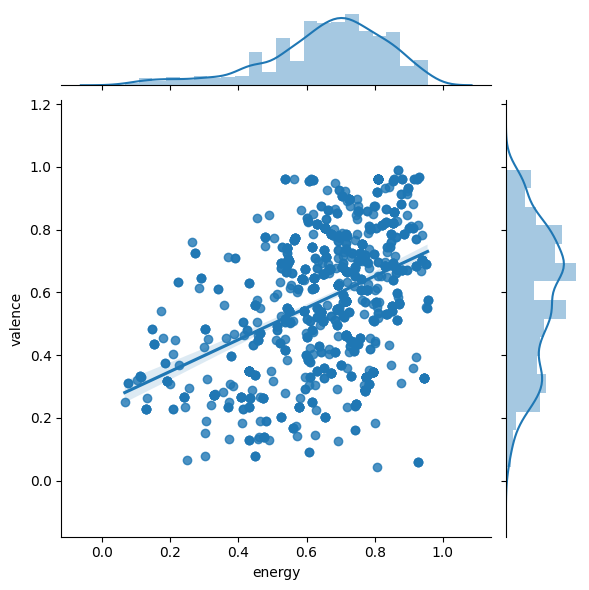
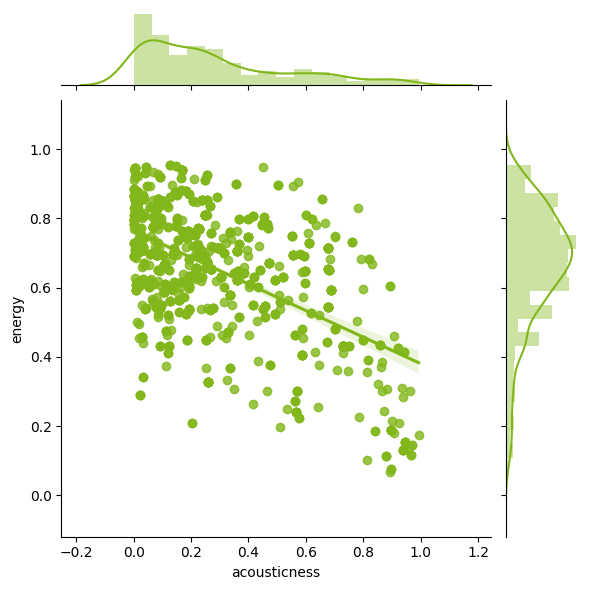
Visualizacion terminada

diff --git a/templates/index.html b/templates/index.html
@@ -31,21 +31,6 @@
 
 
         <div class="row d-flex info flex-column">
-            <h1 class="mb-5">¿Qué características son más frecuentes en cada país?</h1>
-            <h3>Analizaremos algunas características que nos ofrece la API de Spotify:</h3>
-            <p>Danceability: mide lo bailable que es una canción. A mayor valor, más sirve para bailar.</p>
-            <p>Speechiness: cuántas palabras hay en la canción. Valores por encima de 0.3 suele indicar música Rap.</p>
-            <p>Energy: la energía que transmite la canción. Las canciones rápidas y alegres, que nos incitan a movernos tienen mayor energía.</p>
-            <p>Valence: la positividad que transmite una canción.</p>
-            <p>Acousticness: indica si la canción posee muchos instrumentos eléctricos o es acústica.</p>
-            <h3>Parece que empezamos con más similitudes que diferencias. Es curioso que todos los países dibujen formas con cierto parecido</h3>
-        </div>
-        <div class="row d-flex justify-content-center">
-            <div id="myDiv"></div>
-        </div>
-
-
-        <div class="row d-flex info flex-column">
             <h1 class="mb-5">¿Qué relación hay entre las características de la música?</h1>
             <h3>El volumen y la energía de una canción están directamente relacionados</h3>
             <h3>Las canciones con un tempo más lento son menos bailables</h3>
@@ -63,6 +48,61 @@
         <div class="row d-flex justify-content-center">
             <div id="heatmap"></div>
         </div>
+
+
+        <div class="row d-flex info flex-column">
+            <h1 class="mb-5">Relación</h1>
+            <h3>Texto1</h3>
+            <h3>Texto2</h3>
+        </div>
+
+        <div class="row d-flex justify-content-center">
+            <img id="pairplot" src="/static/images/fig1.png"></img>
+
+            <div class="row d-flex justify-content-center sp-container mt-5">
+                <img class="sp-img" src="https://developer.spotify.com/assets/audio/acousticness.png" alt="">
+                <img class="sp-img" src="https://developer.spotify.com/assets/audio/energy.png" alt="">
+                <img class="sp-img" src="https://developer.spotify.com/assets/audio/loudness.png" alt="">
+                <img class="sp-img" src="https://developer.spotify.com/assets/audio/danceability.png" alt="">
+                <img class="sp-img" src="https://developer.spotify.com/assets/audio/valence.png" alt="">
+            </div>
+        </div>
+
+
+        <div class="row d-flex info flex-column">
+            <h1 class="mb-5">Detalles</h1>
+            <h3>Texto1</h3>
+            <h3>Texto2</h3>
+        </div>
+
+        <div class="row d-flex justify-content-center">
+            <img class="pl-img" src="static/images/relations-ac-en.png" alt="">
+            <img class="pl-img" src="static/images/relations-en-loud.png" alt="">
+            <img class="pl-img" src="static/images/relations-loud-ac.png" alt="">
+        </div>
+
+
+
+
+
+
+
+
+
+        <div class="row d-flex info flex-column">
+            <h1 class="mb-5">¿Qué características son más frecuentes en cada país?</h1>
+            <h3>Analizaremos algunas características que nos ofrece la API de Spotify:</h3>
+            <p>Danceability: mide lo bailable que es una canción. A mayor valor, más sirve para bailar.</p>
+            <p>Speechiness: cuántas palabras hay en la canción. Valores por encima de 0.3 suele indicar música Rap.</p>
+            <p>Energy: la energía que transmite la canción. Las canciones rápidas y alegres, que nos incitan a movernos tienen mayor energía.</p>
+            <p>Valence: la positividad que transmite una canción.</p>
+            <p>Acousticness: indica si la canción posee muchos instrumentos eléctricos o es acústica.</p>
+            <h3>Parece que empezamos con más similitudes que diferencias. Es curioso que todos los países dibujen formas con cierto parecido</h3>
+        </div>
+        <div class="row d-flex justify-content-center">
+            <div id="myDiv"></div>
+        </div>
+
 
         <div class="row d-flex info flex-column">
             <h1 class="mb-5">¿Cuántas canciones virales consiguen alcanzar la primera posición al menos una vez?</h1>

diff --git a/static/js/heatmap.js b/static/js/heatmap.js
@@ -29,6 +29,7 @@ let getHeatMapData = country => {
                     x: ['danceability', 'energy', 'speechiness', 'valence', 'tempo', 'acousticness', 'duration_ms', 'loudness', 'key'],
                     y: ['danceability', 'energy', 'speechiness', 'valence', 'tempo', 'acousticness', 'duration_ms', 'loudness', 'key'],
                     type: 'heatmap',
+                    colorscale: [[0, '#1A1A1A'], [0.20 ,'white'], [1, '#81B71A']],
                     hoverongaps: false
                 }]
                 res(data);
@@ -47,24 +48,6 @@ $('#heat-select').change(function() {
 })
 
 
-
-/*
-$.ajax({
-    url: '/relation?country=spain&x=energy&y=acousticness',
-    success: res => {
-        res = JSON.parse(res)
-        var data = [
-            {
-                x: res.x,
-                y: res.y,
-                type: 'scatter',
-                mode: 'markers'
-            }
-          ];
-          Plotly.newPlot('relation', data);
-    }
-})
-*/
 
 let getTopMinData = country => {
     return new Promise((res, rej) => {
@@ -253,8 +236,7 @@ let getSpider = country => {
       font: {
           color: 'white'
       }
-    },
-    showlegend: false
+    }
   }
   
 
@@ -270,4 +252,11 @@ getSpider('spain').then(res => {
     getSpider('turkey').then(res => {
         Plotly.addTraces('myDiv', res)
     })
+  })
+
+  $.ajax({
+      url: 'pairPlot',
+      success: res => {
+          console.log(res);
+      }
   })

diff --git a/static/css/style.css b/static/css/style.css
@@ -65,3 +65,24 @@ body > * {
 .turkey {
     background-color: #dc3545
 }
+
+#pairplot {
+    height: 70%;
+    width: 70%;
+}
+
+.sp-img {
+    width: 15%;
+    height: auto;
+    margin: 10px;
+}
+
+.sp-container {
+    width: 80%
+}
+
+.pl-img {
+    width: 25%;
+    height: auto;
+    margin: 10px;
+}

diff --git a/predict.py b/predict.py
@@ -12,6 +12,18 @@ from sklearn.neural_network import MLPClassifier
 from sklearn.datasets import make_classification
 
 
+from sklearn import datasets, linear_model
+from sklearn.linear_model import LinearRegression, RANSACRegressor
+from sklearn.tree import DecisionTreeRegressor
+from sklearn.discriminant_analysis import LinearDiscriminantAnalysis
+from sklearn.neural_network import MLPRegressor
+from sklearn.ensemble import RandomForestRegressor
+from sklearn.model_selection import cross_val_predict, train_test_split
+from sklearn.metrics import mean_squared_error, r2_score, mean_absolute_error
+from sklearn import model_selection
+from pandas.plotting import scatter_matrix
+
+
 features = ['danceability', 'energy', 'speechiness', 'valence', 'mode', 'acousticness', 'tempo', 'duration_ms', 'loudness', 'key']
 predict_header = ['success']
 
@@ -26,8 +38,8 @@ df = df_format
 songs_grouped = df.groupby('URL').min()
 songs_grouped['success'] = songs_grouped['position'] < 15
 songs_grouped['success'] = songs_grouped['success'].astype(int)
-sns.countplot(x="success", data=songs_grouped)
-plt.show()
+# sns.countplot(x="success", data=songs_grouped)
+# plt.show()
 
 # Hacemos una primera prueba con el algoritmo KNeighbours Classiffier
 X_all = songs_grouped[features]
@@ -45,47 +57,47 @@ Y_all = songs_grouped[predict_header]
 # plt.show()
 
 
-#Volvemos a probar eliminando algunos atributos
-X_all = songs_grouped[features]
-X_all = X_all.drop(['duration_ms', 'loudness', 'key', 'tempo', 'speechiness', 'mode'], axis = 1)
-X_train, X_test, Y_train, Y_test = train_test_split(X_all, Y_all, test_size=0.2, random_state=42)
-knn = KNeighborsClassifier(n_neighbors = 23)
-knn.fit(X_train, Y_train)
-prediction = knn.predict(X_test)
-print(knn.score(X_test, Y_test))
-cm = confusion_matrix(Y_test, prediction)
-sns.heatmap(cm, annot = True, cmap="Blues")
-plt.show()
+# #Volvemos a probar eliminando algunos atributos
+# X_all = songs_grouped[features]
+# X_all = X_all.drop(['duration_ms', 'loudness', 'key', 'tempo', 'speechiness', 'mode'], axis = 1)
+# X_train, X_test, Y_train, Y_test = train_test_split(X_all, Y_all, test_size=0.2, random_state=42)
+# knn = KNeighborsClassifier(n_neighbors = 23)
+# knn.fit(X_train, Y_train)
+# prediction = knn.predict(X_test)
+# print(knn.score(X_test, Y_test))
+# cm = confusion_matrix(Y_test, prediction)
+# sns.heatmap(cm, annot = True, cmap="Blues")
+# plt.show()
 
 
 
 
-#Buscamos el mejor parámetro para K
-X_all = songs_grouped[features]
-X_all = X_all.drop(['duration_ms', 'loudness', 'key', 'tempo', 'speechiness', 'mode'], axis = 1)
+# #Buscamos el mejor valor para el parámetro K
+# X_all = songs_grouped[features]
+# X_all = X_all.drop(['duration_ms', 'loudness', 'key', 'tempo', 'speechiness', 'mode'], axis = 1)
 
-X_train, X_test, Y_train, Y_test = train_test_split(X_all, Y_all, test_size=0.2, random_state=42)
+# X_train, X_test, Y_train, Y_test = train_test_split(X_all, Y_all, test_size=0.2, random_state=42)
 
-test_accuracy = []
-rg = np.arange(1, 25)
+# test_accuracy = []
+# rg = np.arange(1, 25)
 
-for i, k in enumerate(rg):
-    knn = KNeighborsClassifier(n_neighbors=k)
-    knn.fit(X_train, Y_train)
-    test_accuracy.append(knn.score(X_test, Y_test))
+# for i, k in enumerate(rg):
+#     knn = KNeighborsClassifier(n_neighbors=k)
+#     knn.fit(X_train, Y_train)
+#     test_accuracy.append(knn.score(X_test, Y_test))
     
-plt.figure(figsize=[13,8])
-plt.plot(rg, test_accuracy)
-plt.legend()
-plt.title('K VS Precisión')
-plt.xlabel('K')
-plt.ylabel('Precisión')
-plt.show()
-print("Mejor precision: {} con K = {}".format(np.max(test_accuracy),1+test_accuracy.index(np.max(test_accuracy))))    
-labels = ['1', '0']
-cm = confusion_matrix(Y_test, prediction)
-sns.heatmap(cm, annot = True, cmap="Blues")
-plt.show()
+# plt.figure(figsize=[13,8])
+# plt.plot(rg, test_accuracy)
+# plt.legend()
+# plt.title('K VS Precisión')
+# plt.xlabel('K')
+# plt.ylabel('Precisión')
+# plt.show()
+# print("Mejor precision: {} con K = {}".format(np.max(test_accuracy),1+test_accuracy.index(np.max(test_accuracy))))    
+# labels = ['1', '0']
+# cm = confusion_matrix(Y_test, prediction)
+# sns.heatmap(cm, annot = True, cmap="Blues")
+# plt.show()
 
 
 
@@ -94,24 +106,3 @@ plt.show()
 
 
 ################# RED NEURONAL. MIRAR SI DA TIEMPO
-
-# X_all = songs_grouped[features]
-# Y_all = songs_grouped[predict_header]
-# X_train, X_test, Y_train, Y_test = train_test_split(X_all, Y_all, test_size=0.2, random_state=42)
-
-# clf = MLPClassifier(hidden_layer_sizes=(100, 100, 100), max_iter=10000, alpha=0000.1,
-#                      solver='adam', verbose=10,  random_state=42, tol=0.00000001, activation='relu')
-
-# clf.fit(X_train, Y_train)
-# prediction = clf.predict(X_test)
-
-# cm = confusion_matrix(Y_test, prediction)
-# sns.heatmap(cm, center=True)
-# plt.show()
-
-# print(accuracy_score(Y_test, prediction))
-# print(prediction)
-
-###############################################
-
-

diff --git a/service.py b/service.py
@@ -25,6 +25,16 @@ def get_dir(country):
 
 
 
+
+def show_relation():
+    country = 'spain'
+    df = pd.read_csv(get_dir(country))
+    sns_plot = sns.jointplot(x='acousticness', y='energy', data=df, kind='reg', color='#81B71A')
+    sns_plot.savefig('./img_graphs_'+ country + '/relations.png')
+    plt.show()
+
+show_relation()
+
 @app.route('/spider')
 def spider():
     country = request.args.get('country')
@@ -46,8 +56,6 @@ def spider():
     values.pop(5)
     values.pop(6)
     values.pop(5)
-    print(headers)
-    print(values)
     data = {'headers': headers, 'values': values}
     return json.dumps(data)
 
@@ -69,6 +77,23 @@ def show_heatmap():
         corr_list = [rows.danceability, rows.energy, rows.speechiness, rows.valence, rows.tempo, rows.acousticness, rows.duration_ms, rows.loudness, rows.key]    
         row_list.append(corr_list)
     return json.dumps(row_list)
+
+
+
+def show_pairplot():
+    country = 'spain'#request.args.get('country')
+    df = pd.read_csv(get_dir(country))
+    df.dropna()
+    audio_feature_headers = ['danceability', 'energy', 'speechiness', 'valence', 'tempo', 'acousticness', 'duration_ms','loudness','key']
+    sns.set(style="white")
+    style.use('seaborn-poster')
+    style.use('ggplot')
+
+    splot = sns.pairplot(df[audio_feature_headers], vars=['acousticness', 'energy', 'loudness', 'danceability', 'valence'],
+    corner=True)
+    plt.show()
+    return 'ok'
+
 
 
 
